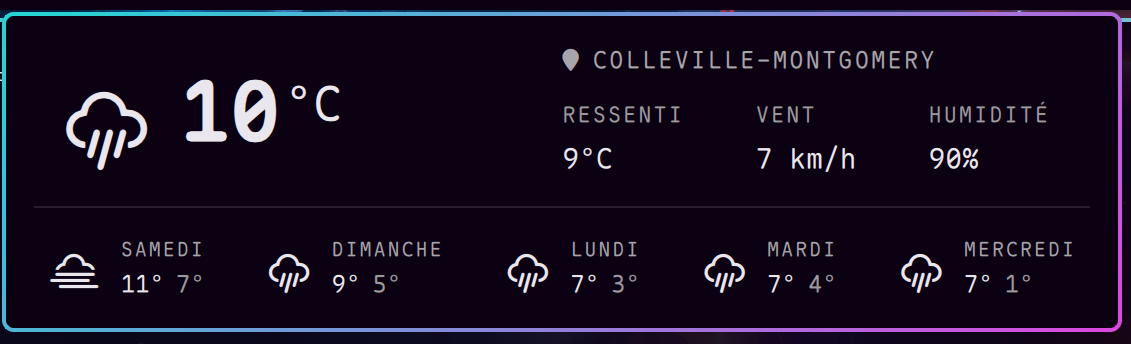
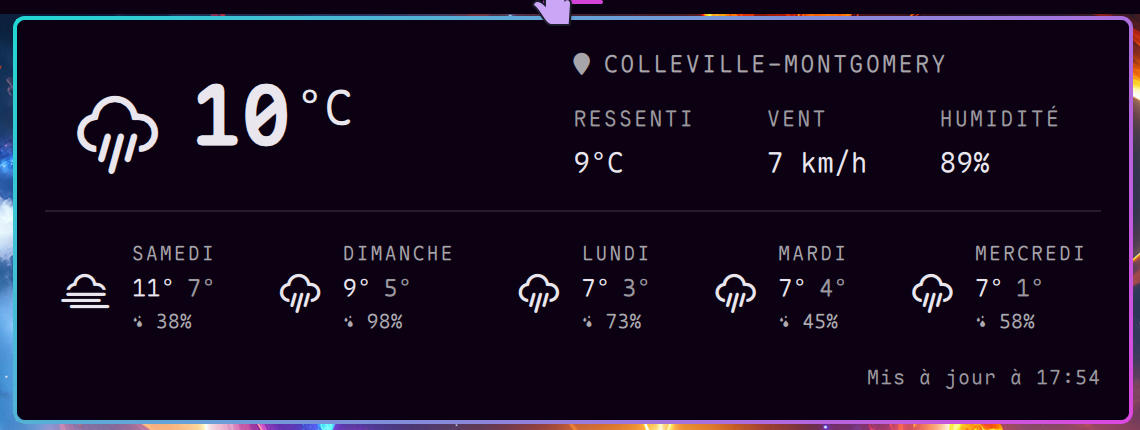
MyWeather 1.2.0 — seven-day forecast, rain probability, location fix
- forecastDays now goes up to 7; the card widens with the row so the extra
  days are not clipped and the row keeps its margins
- each forecast day shows the rain probability (open-meteo
  precipitation_probability_max, wttr.in chanceofrain as the fallback)
- the hero column is as wide as its widest child, so hiding the feels-like
  stats no longer clips the place name on the right
- README and panel screenshot updated

diff --git a/Panel.qml b/Panel.qml
@@ -229,7 +229,7 @@ Panel {
     var url = "https://api.open-meteo.com/v1/forecast"
       + "?latitude=" + encodeURIComponent(String(lat))
       + "&longitude=" + encodeURIComponent(String(lon))
-      + "&daily=weather_code,temperature_2m_max,temperature_2m_min"
+      + "&daily=weather_code,temperature_2m_max,temperature_2m_min,precipitation_probability_max"
       + "&current=temperature_2m,apparent_temperature,relative_humidity_2m,wind_speed_10m,weather_code,is_day"
       // The current fields need a window too; one day is today only.
       + "&forecast_days=" + Math.max(1, root.forecastDayCount + 1)
@@ -375,6 +375,11 @@ Panel {
   // Bare degree value (no unit letter), used in the forecast row.
   function bareTempForDay(day, kind) {
     return Model.bareTempForDay(day, kind, useImperial, Commons.I18n.formatNumber)
+  }
+
+  // Rain probability for a forecast day ("60%"), or "" when the source has none.
+  function rainChanceForDay(day) {
+    return Model.rainChanceForDay(day, Commons.I18n.formatNumber)
   }
 
   // Representative icon for a forecast day: the hourly entry nearest noon.
@@ -599,7 +604,9 @@ Panel {
     focusTarget: panel.loadedContent
     // Drop the popup 5px lower than the stock gap under the bar.
     gap: Style.gapsOut + 5
-    contentWidth: panel.fittedContentWidth(Style.space(560))
+    // Seven days need a wider card than five, so the forecast row keeps its
+    // side margins instead of being clipped.
+    contentWidth: panel.fittedContentWidth(Style.space(560 + 140 * Math.max(0, root.forecastDayCount - 5)))
     contentHeight: panel.fittedContentHeight(panel.loadedContentHeight)
 
     content: PanelKeyCatcher {
@@ -683,13 +690,16 @@ Panel {
 
         Column {
           id: heroRight
-          width: weatherStats.implicitWidth
+          // Wide enough for the widest child: hiding the feels-like column used
+          // to narrow this to the stats row and clip the place name on the right.
+          width: Math.max(weatherStats.implicitWidth, locationRow.implicitWidth, locationEditRow.implicitWidth)
           anchors.right: parent.right
           anchors.rightMargin: Style.space(20)
           anchors.verticalCenter: parent.verticalCenter
           spacing: Style.space(12)
 
           Row {
+            id: locationRow
             visible: root.showLocation && !root.editingLocation && root.reportLocation !== ""
             spacing: Style.space(6)
 
@@ -719,6 +729,7 @@ Panel {
           }
 
           Row {
+            id: locationEditRow
             visible: root.editingLocation
             spacing: Style.space(6)
 
@@ -983,6 +994,17 @@ Panel {
                     font.family: root.bar.fontFamily
                     font.pixelSize: Style.font.body
                   }
+                }
+
+                // Rain probability, when the forecast source provides it.
+                Text {
+                  textFormat: Text.PlainText
+                  visible: text !== ""
+                  text: root.rainChanceForDay(modelData) !== ""
+                    ? "\ue34a " + root.rainChanceForDay(modelData) : ""
+                  color: Qt.darker(root.bar.foreground, 1.35)
+                  font.family: root.bar.fontFamily
+                  font.pixelSize: Style.font.caption
                 }
               }
             }

diff --git a/Model.js b/Model.js
@@ -168,7 +168,9 @@ function openMeteoForecastDays(dailyForecastReport, todayString, maxDays) {
       mintempC: roundedTemp(minC),
       maxtempF: roundedTemp(celsiusToFahrenheit(maxC)),
       mintempF: roundedTemp(celsiusToFahrenheit(minC)),
-      openMeteoWeatherCode: daily.weather_code ? daily.weather_code[i] : null
+      openMeteoWeatherCode: daily.weather_code ? daily.weather_code[i] : null,
+      chanceOfRain: daily.precipitation_probability_max
+        ? daily.precipitation_probability_max[i] : null
     })
   }
   return result
@@ -220,7 +222,7 @@ function forecastDayLimit(maxDays) {
   if (maxDays === undefined || maxDays === null || maxDays === "") return 5
   var n = parseInt(String(maxDays), 10)
   if (isNaN(n)) return 5
-  return Math.max(0, Math.min(5, n))
+  return Math.max(0, Math.min(7, n))
 }
 
 function wttrNextForecastDays(report, todayString, maxDays) {
@@ -230,9 +232,32 @@ function wttrNextForecastDays(report, todayString, maxDays) {
   // fallback can ever show; the five-day request needs Open-Meteo.
   var limit = forecastDayLimit(maxDays)
   for (var i = 0; i < days.length && result.length < limit; ++i) {
-    if (isFutureForecastDate(days[i].date, todayString)) result.push(days[i])
+    var day = days[i]
+    if (!isFutureForecastDate(day.date, todayString)) continue
+    // Copy the fields the forecast row reads, so both sources expose the same
+    // shape and wttr's own chanceofrain lands under the same key.
+    result.push({
+      date: day.date,
+      maxtempC: day.maxtempC,
+      mintempC: day.mintempC,
+      maxtempF: day.maxtempF,
+      mintempF: day.mintempF,
+      hourly: day.hourly,
+      chanceOfRain: day.chanceofrain
+    })
   }
   return result
+}
+
+// Rain probability for a forecast day, as a percentage string, or "" when the
+// source has none.
+function rainChanceForDay(day, fmt) {
+  if (!day) return ""
+  var value = day.chanceOfRain
+  if (value === undefined || value === null || value === "") return ""
+  var n = parseInt(String(value), 10)
+  if (isNaN(n)) return ""
+  return displayNumber(fmt)(n) + "%"
 }
 
 function buildForecastDays(report, dailyForecastReport, todayString, maxDays) {
@@ -324,6 +349,7 @@ if (typeof module !== "undefined") {
     forecastDayLimit: forecastDayLimit,
     wttrNextForecastDays: wttrNextForecastDays,
     buildForecastDays: buildForecastDays,
+    rainChanceForDay: rainChanceForDay,
     bareTempForDay: bareTempForDay,
     dayIcon: dayIcon,
     iconForOpenMeteoCode: iconForOpenMeteoCode,

diff --git a/SettingsMenu.qml b/SettingsMenu.qml
@@ -32,7 +32,7 @@ Panel {
 
   function dayOptions() {
     var out = [{ value: "0", label: strings.t("settings.forecastNone") }]
-    for (var n = 1; n <= 5; ++n)
+    for (var n = 1; n <= 7; ++n)
       out.push({ value: String(n), label: strings.tn("settings.forecastDayCount", n).arg(n) })
     return out
   }

diff --git a/README-fr.md b/README-fr.md
@@ -1,6 +1,6 @@
 # MyWeather
 
-Version 1.1.0
+Version 1.2.0
 
 [English](README.md) | **Français**
 
@@ -13,8 +13,8 @@ Ce qu'il ajoute :
 
 - la température actuelle à droite de l'icône dans la barre (désactivable avec
   `showTemperature`) ;
-- des prévisions sur **cinq jours** au lieu de trois, et un nombre de jours
-  réglable de 0 à 5 ;
+- des prévisions jusqu'à **sept jours** au lieu de trois, avec un nombre de
+  jours réglable de 0 à 7 et la probabilité de pluie sous chaque jour ;
 - un **menu de réglages au clic droit** (français et anglais, selon la langue
   du bureau) pour choisir ce qu'affichent la barre et le panneau ;
 - un `User-Agent` stable sur ses requêtes HTTP — le serveur d'open-meteo répond
@@ -64,7 +64,7 @@ Dans le popup :
 | En-tête | grande icône, température actuelle, unité |
 | Lieu | le lieu configuré, ou celui détecté depuis le réseau |
 | Détails | ressenti, vent, humidité |
-| Prévisions | 0 à 5 jours : nom du jour, icône, maximum et minimum |
+| Prévisions | 0 à 7 jours : nom du jour, icône, max/min et probabilité de pluie |
 | Pied | heure du dernier relevé |
 
 Un clic sur la ligne du lieu ouvre un champ de recherche (géocodage
@@ -98,7 +98,7 @@ choisies dans l'entrée du widget dans `~/.config/omarchy/shell.json` :
 | `showFeelsLike` | `true` | température ressentie dans le panneau |
 | `showLocation` | `true` | nom du lieu dans le panneau |
 | `showUpdatedAt` | `true` | heure de mise à jour en pied de panneau |
-| `forecastDays` | `5` | jours de prévisions, 0 à 5 (0 masque la ligne) |
+| `forecastDays` | `5` | jours de prévisions, 0 à 7 (0 masque la ligne) |
 | `unit` | `""` | `""` automatique (pays, puis locale), ou `metric` / `imperial` |
 | `refreshMinutes` | `15` | intervalle de rafraîchissement en minutes (minimum 1) |
 
@@ -114,9 +114,10 @@ omarchy bar set io.github.jotenakis2.myweather forecastDays 2 --json
 
 ## D'où viennent les données
 
-- `wttr.in` pour les conditions actuelles et les prévisions de secours ;
-- `api.open-meteo.com` pour la lecture rapide des conditions et les prévisions
-  quotidiennes ;
+- `wttr.in` pour les conditions actuelles et les prévisions de secours (son
+  `chanceofrain` remplit la même ligne de pluie) ;
+- `api.open-meteo.com` pour la lecture rapide des conditions, les prévisions
+  quotidiennes et la probabilité de pluie (`precipitation_probability_max`) ;
 - `geo.omarchy.org` pour détecter le lieu quand aucun n'est configuré ;
 - `geocoding-api.open-meteo.com` pour la recherche de lieu.
 

diff --git a/README.md b/README.md
@@ -1,6 +1,6 @@
 # MyWeather
 
-Version 1.1.0
+Version 1.2.0
 
 **English** | [Français](README-fr.md)
 
@@ -13,7 +13,8 @@ What it adds on top:
 
 - the current temperature next to the condition icon in the bar
   (switch it off with `showTemperature`);
-- a **five-day** forecast instead of three, and a day count from 0 to 5;
+- a forecast of up to **seven days** instead of three, with a day count from
+  0 to 7 and the rain probability under each day;
 - a **right-click settings menu** (English and French, following the desktop
   language) for what the bar and the popup show;
 - a stable `User-Agent` on its HTTP requests — open-meteo's edge answers
@@ -61,7 +62,7 @@ In the popup:
 | Hero | big condition icon, current temperature, unit |
 | Location | the configured place, or the one detected from your network |
 | Stats | feels-like, wind, humidity |
-| Forecast | 0 to 5 days: day name, condition icon, high and low |
+| Forecast | 0 to 7 days: day name, condition icon, high/low and rain probability |
 | Footer | when the readings were last fetched |
 
 Clicking the location line opens a search field (Open-Meteo geocoding). Picking
@@ -96,7 +97,7 @@ chosen values straight into this widget's entry in
 | `showFeelsLike` | `true` | feels-like value in the popup |
 | `showLocation` | `true` | place name in the popup |
 | `showUpdatedAt` | `true` | last-update footer in the popup |
-| `forecastDays` | `5` | days in the forecast row, 0 to 5 (0 hides it) |
+| `forecastDays` | `5` | days in the forecast row, 0 to 7 (0 hides it) |
 | `unit` | `""` | `""` automatic (country, then locale), or `metric` / `imperial` |
 | `refreshMinutes` | `15` | refresh interval in minutes (minimum 1) |
 
@@ -112,8 +113,10 @@ omarchy bar set io.github.jotenakis2.myweather forecastDays 2 --json
 
 ## Where the data comes from
 
-- `wttr.in` for the current conditions and the popup's fallback forecast;
-- `api.open-meteo.com` for the fast current reading and the daily forecast;
+- `wttr.in` for the current conditions and the popup's fallback forecast
+  (its `chanceofrain` fills the same rain line);
+- `api.open-meteo.com` for the fast current reading, the daily forecast and the
+  rain probability (`precipitation_probability_max`);
 - `geo.omarchy.org` to detect the location when none is configured;
 - `geocoding-api.open-meteo.com` for the location search.
 
